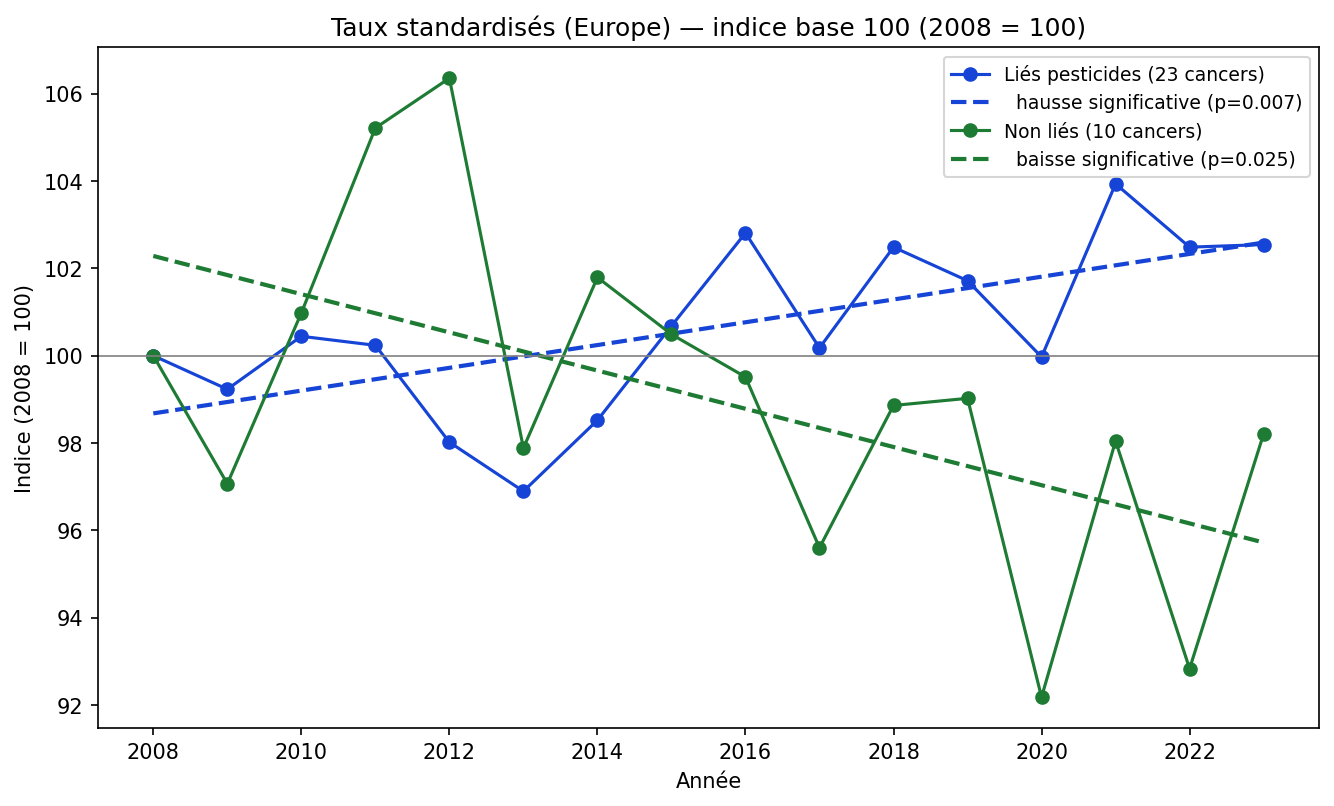
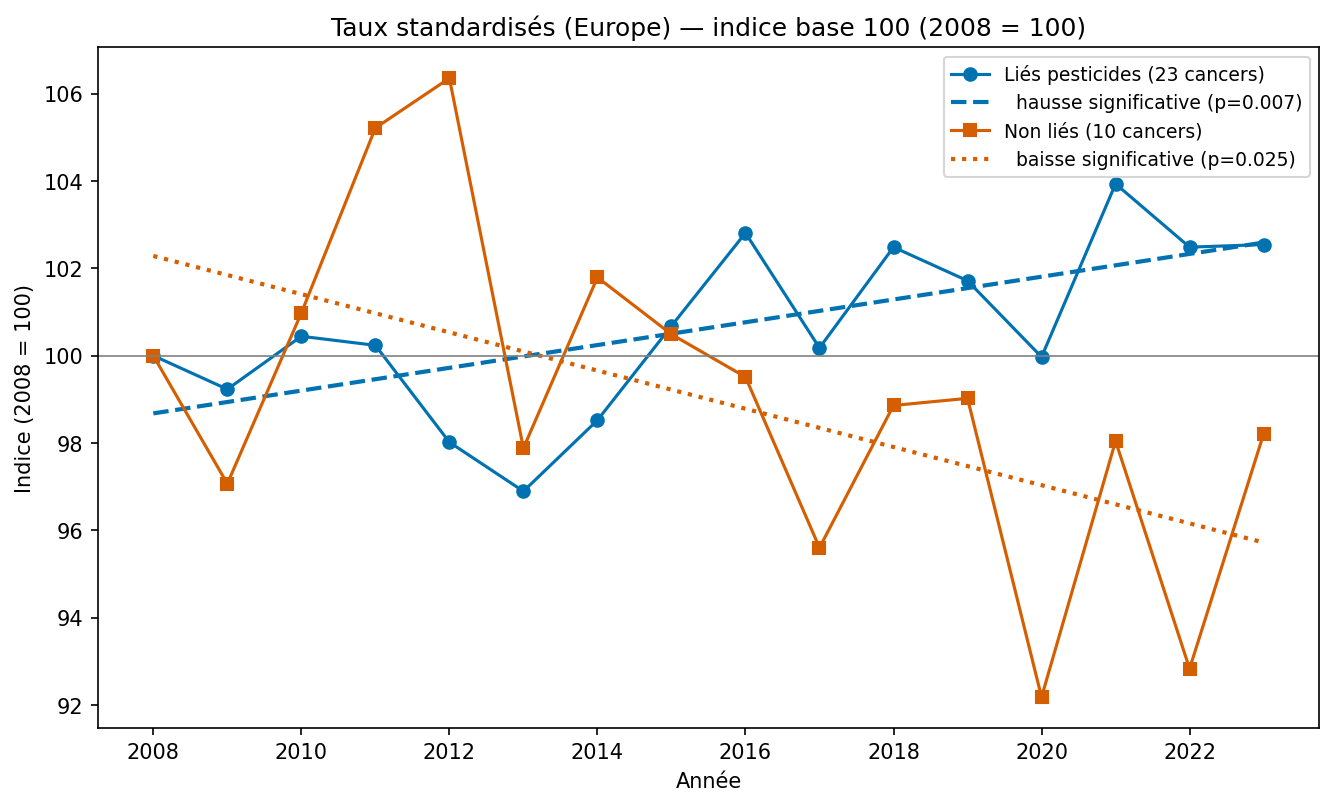
Accessibilité : liens lisibles et soulignés, graphiques pour daltoniens
Les liens n'avaient pas de couleur et prenaient le bleu par défaut,
illisible en mode sombre. Ils ont maintenant la couleur d'accent et
restent soulignés (WCAG 2.1 AA, critère 1.4.1), avec un focus clavier
visible et le respect du réglage « réduire les animations ». Graphiques
régénérés avec la palette Okabe-Ito (bleu #0072B2, vermillon #D55E00),
des marqueurs et des pointillés différents par groupe. Données inchangées.

diff --git a/scripts/site_style.css b/scripts/site_style.css
@@ -42,7 +42,18 @@
 
 * { box-sizing: border-box; }
 
-html { scroll-behavior: smooth; }
+html { scroll-behavior: smooth; color-scheme: light dark; }
+
+/* Accessibilité (WCAG 2.1 AA / RGAA) : les liens ont la couleur d'accent (contraste ≥ 5,5:1 sur
+   tous les fonds, en clair comme en sombre) et restent soulignés, pour ne pas reposer sur la seule
+   couleur, illisible pour certains daltoniens. Le focus clavier est toujours visible. */
+a { color: var(--accent); text-decoration: underline; text-underline-offset: 2px; }
+a:hover { text-decoration-thickness: 2px; }
+a:focus-visible { outline: 2px solid var(--accent); outline-offset: 2px; border-radius: 2px; }
+@media (prefers-reduced-motion: reduce) {
+  html { scroll-behavior: auto; }
+  *, *::before, *::after { animation: none !important; transition: none !important; }
+}
 
 body {
   margin: 0;
